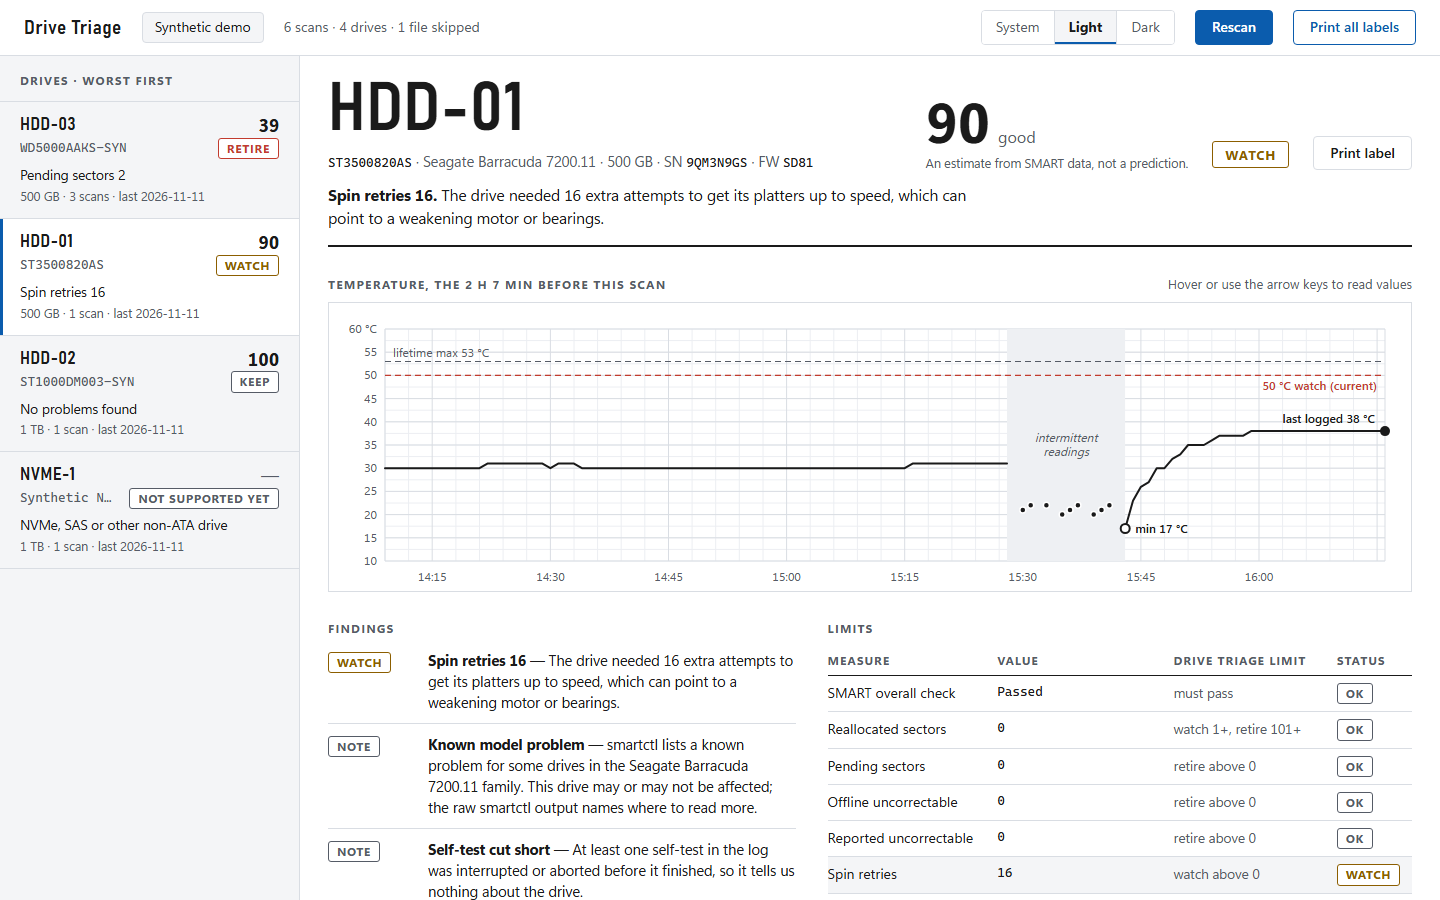
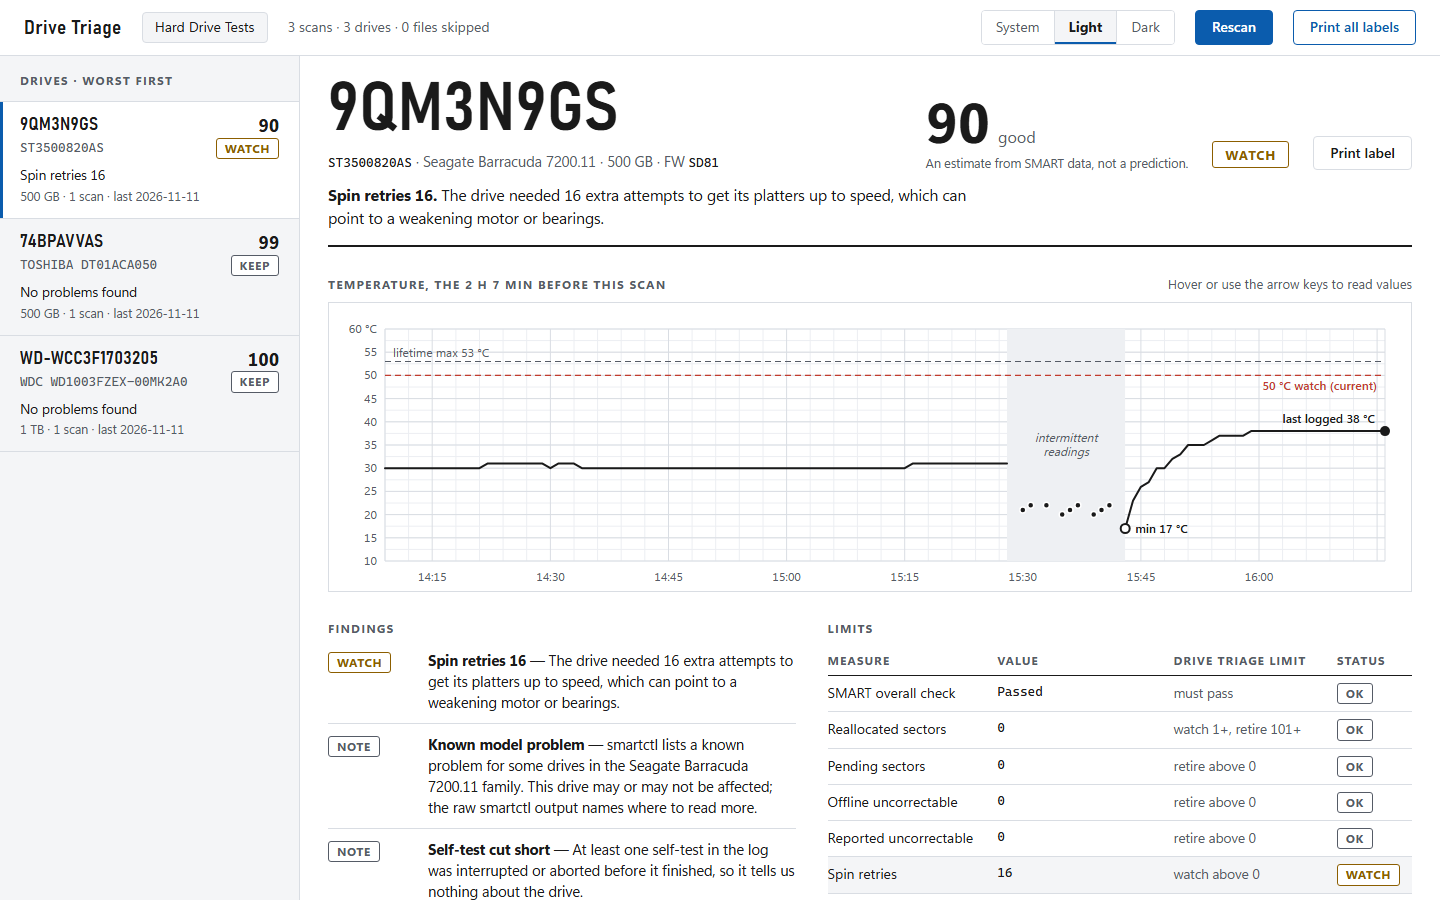
docs: describe serial-number naming and show the three real drives

diff --git a/README.md b/README.md
@@ -8,13 +8,13 @@ It is a single local web page. There is no install, no server, no database and n
 
 Light theme:
 
-![Drive Triage in the light theme: a worst-first list of four drives (one real scan and three synthetic demo drives) with HDD-01 selected, showing its WATCH verdict, health score 90, temperature curve, findings and limits](docs/images/drive-triage-light.png)
+![Drive Triage in the light theme: a worst-first list of three real drives named by serial number, with the Seagate 9QM3N9GS selected, showing its WATCH verdict, health score 90, temperature curve, findings and limits](docs/images/drive-triage-light.png)
 
 Dark theme:
 
-![Drive Triage in the dark theme, showing the same four drives with HDD-01 selected](docs/images/drive-triage-dark.png)
+![Drive Triage in the dark theme, showing the same three drives with 9QM3N9GS selected](docs/images/drive-triage-dark.png)
 
-These screenshots use synthetic demo data alongside one real scan (HDD-01, a Seagate Barracuda 7200.11).
+These screenshots show three real scans: a Seagate Barracuda 7200.11, a Toshiba DT01ACA050 and a WD Black.
 
 ## Quick start
 
@@ -24,18 +24,16 @@ These screenshots use synthetic demo data alongside one real scan (HDD-01, a Sea
 
 Edge or Chrome is recommended. They remember the folder between visits, so you only pick it once; on a return visit you may need to click Reopen and allow read access. In other browsers the page still works, but you choose the folder with a folder picker each visit.
 
-Scans are grouped into drives by serial number and model. The subfolder name only supplies the drive's display name (taken from the most recent scan), so a layout like this works well:
+Each drive is named by its serial number, in the app and on its label. Scans are grouped into drives by serial number and model, so you can keep every scan in one folder with GSmartControl's default file names, or organise them into subfolders however you like:
 
 ```
 Hard Drive Tests/
-  HDD-01/
-    HDD-01-<model>_<serial>_<date>_<time>.json
-    HDD-01-<model>_<serial>_<date>_<time>.json
-  HDD-02/
-    ...
+  ST3500820AS_9QM3N9GS_2026-11-11_1618.json
+  TOSHIBA_DT01ACA050_74BPAVVAS_2026-11-11_1731.json
+  WDC_WD1003FZEX-00MK2A0_WD-WCC3F1703205_2026-11-11_2030.json
 ```
 
-The subfolder name (`HDD-01`) is the drive's name in the app and on its label. Scans with the same serial number and model are one drive, even if they sit in different folders. Files that are not JSON, or not smartctl scans, are skipped and counted in the status line.
+Scans with the same serial number and model are one drive, wherever they sit; each new scan adds to that drive's history. Files that are not JSON, or not smartctl scans, are skipped and counted in the status line.
 
 Only ATA/SATA drives are supported so far. NVMe and SAS scans are listed as not supported yet.
 
